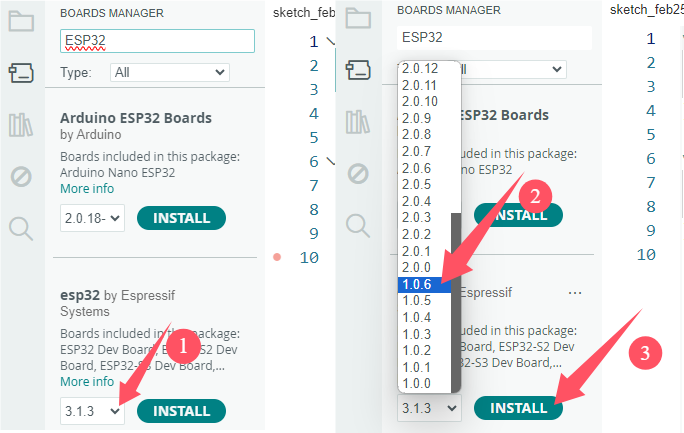
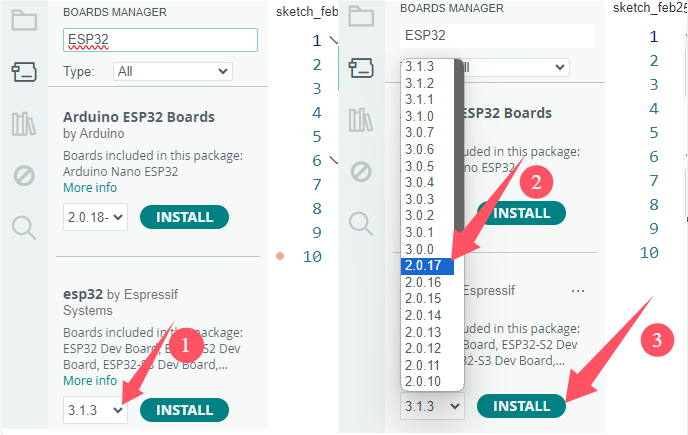
2025-02-25 16:37:41.02

diff --git a/docs/Arduino_C Tutorial/Arduino_C_Tutorial.md b/docs/Arduino_C Tutorial/Arduino_C_Tutorial.md
@@ -1675,13 +1675,13 @@ The IR receiver on the PCB board is controlled by GPIO19 of the ESP32 board.
 ![Img](./media/img-20250225155452.png)
 
 
-<span style="color: rgb(255, 76, 65); background: rgb(255, 251, 0);">⚠Warning:  If you are using an ESP32 development board version 3.1.3 or higher, you may encounter errors during the compilation process. This issue is usually because the newer versions of the board no longer support the `IRremoteESP8266` library. To properly run this example, it is recommended to downgrade your ESP32 board’s firmware version to **1.0.6**. After completing this example and the lesson 14 example, upgrade back to the latest version. </span>
+<span style="color: rgb(255, 76, 65); background: rgb(255, 251, 0);">⚠Warning:  If you are using an ESP32 development board version **3.1.3** or higher, you may encounter errors during the compilation process. This issue is usually because the newer versions of the board no longer support the `IRremoteESP8266` library. To properly run this example, it is recommended to downgrade your ESP32 board’s firmware version to **2.0.17**. After completing this example and the lesson 14 example, upgrade back to the latest version. </span>
 
 Copy and paste the link：**https://espressif.github.io/arduino-esp32/package_esp32_index.json**  in Additional boards manager URLs and click **OK**.
 
 ![Img](./media/img-20250225154317.png)
 
-Select the icon of board manager to search for “**ESP32**” and click version **<span style="color: rgb(255, 76, 65);">1.0.6</span>** to “**Install**”. 
+Select the icon of board manager to search for “**ESP32**” and click version **<span style="color: rgb(255, 76, 65);">2.0.17</span>** to “**Install**”. 
 
 ![Img](./media/img-20250225154625.png)
 
@@ -1759,13 +1759,13 @@ In the above experiment, we have learned about the knowledge of the 8*8 dot matr
 ![Img](./media/img-20250225155452.png)
 
 
-<span style="color: rgb(255, 76, 65); background: rgb(255, 251, 0);">⚠Warning:  If you are using an ESP32 development board version 3.1.3 or higher, you may encounter errors during the compilation process. This issue is usually because the newer versions of the board no longer support the `IRremoteESP8266` library. To properly run this example, it is recommended to downgrade your ESP32 board’s firmware version to **1.0.6**. After completing this example and the lesson 13 example, upgrade back to the latest version. </span>
+<span style="color: rgb(255, 76, 65); background: rgb(255, 251, 0);">⚠Warning:  If you are using an ESP32 development board version **3.1.3** or higher, you may encounter errors during the compilation process. This issue is usually because the newer versions of the board no longer support the `IRremoteESP8266` library. To properly run this example, it is recommended to downgrade your ESP32 board’s firmware version to **2.0.17**. After completing this example and the lesson 13 example, upgrade back to the latest version. </span>
 
-Copy and paste the link：**https://espressif.github.io/arduino-esp32/package_esp32_index.json**  in Additional boards manager URLs and click **OK**.
+Copy and paste the link：**https://espressif.github.io/arduino-esp32/package_esp32_index.json** in Additional boards manager URLs and click **OK**.
 
 ![Img](./media/img-20250225154317.png)
 
-Select the icon of board manager to search for “**ESP32**” and click version **<span style="color: rgb(255, 76, 65);">1.0.6</span>** to “**Install**”. 
+Select the icon of board manager to search for “**ESP32**” and click version **<span style="color: rgb(255, 76, 65);">2.0.17</span>** to “**Install**”. 
 
 ![Img](./media/img-20250225154625.png)
 
